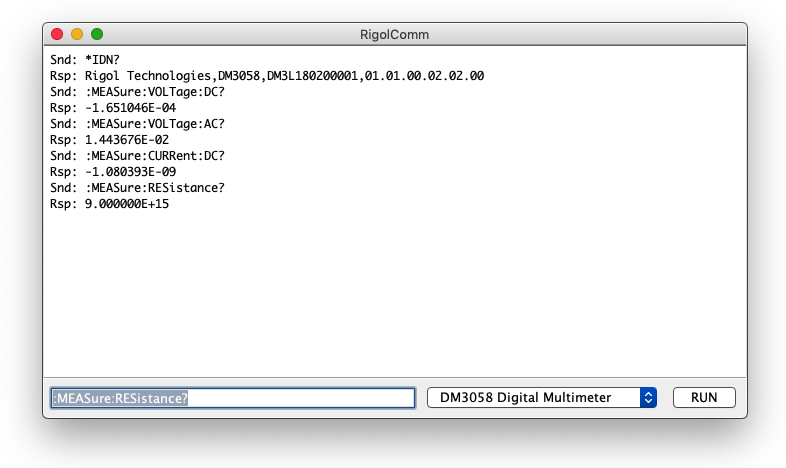
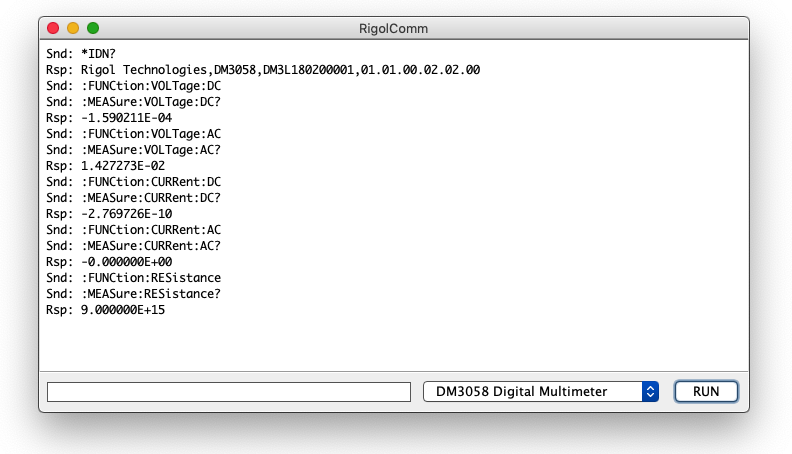
Misc bug fixes and text corrections

Changed region(s): [[0.0305, 0.0308, 0.9771, 0.9251]]

diff --git a/src/RigolComm.java b/src/RigolComm.java
@@ -190,6 +190,7 @@ public class RigolComm extends JFrame {
     appendLine("Snd: " + cmd);
     usb.send(buf.toByteArray());
     if (cmd.contains("?")) {
+      delay(100);
       bTag++;
       int xferSize = (usb.maxPkt / 2) - 12;
       StringBuilder rec = new StringBuilder();

diff --git a/README.md b/README.md
@@ -13,12 +13,21 @@ To use RigolComm, first select the device to communicate with using the selector
  
 #### Commands for the Rigol DM3058 Digital Multimeter include:
 
+ - **`:FUNCtion:VOLTage:DC`** - Sets DM3058 to measure DC Voltage
  - **`:MEASure:VOLTage:DC?`** - Measure DC Voltage
+ - **`:FUNCtion:VOLTage:AC`** - Sets DM3058 to measure AC Voltage
  - **`:MEASure:VOLTage:AC?`** - Measure AC Voltage
+ - **`:FUNCtion:CURRent:DC`** - Sets DM3058 to measure DC Current
  - **`:MEASure:CURRent:DC?`** - Measure DC Current
+ - **`:FUNCtion:CURRent:AC`** - Sets DM3058 to measure AC Current
  - **`:MEASure:CURRent:AC?`** - Measure AC Current
+ - **`:FUNCtion:RESistance`** - Sets DM3058 to measure Resistance
  - **`:MEASure:RESistance?`** - Measure Resistance
  
+Caution: be careful when using commends that switch measuring modes, such as issuing a **`:MEASure:CURRent:DC?`** command when the instrument is connected to a voltage source, as this can damage the instrument.  Also, using the **`MEASure`** command switch from one mode to another may result in a read timeout, as it takes time for the DM3058 to internally make the mode change.  So, it's better to first use a **`FUNCtion`** command t0 select the measurment mode before issuing a **`MEASure`** command.
+
+Also, the portions of the commands shown in lower case letters are optional and can be omitted.  So, for example, sending the command **`:FUNC:VOLT:DC`** is the same as sending the command **`:FUNCtion:VOLTage:DC`**.
+
 #### Commands for a Rigol DG4162 Function/Arbitrary Waveform Generator include:
  
   - **`:SOURce1:FREQuency:FIXed 888888`** - Set Channel 1 Frequency to 888.888 kHz
